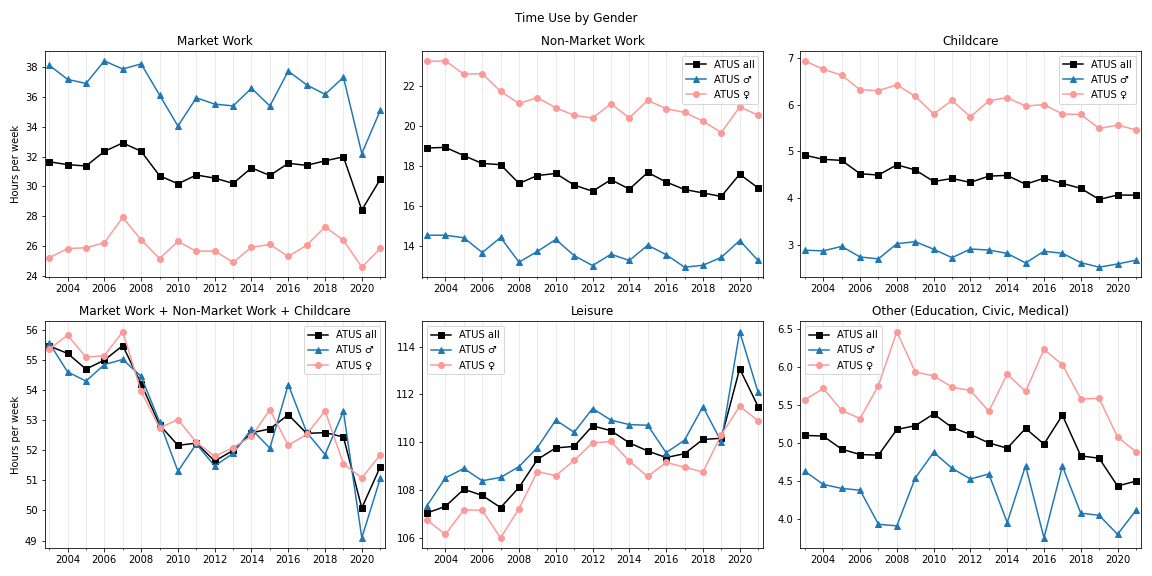
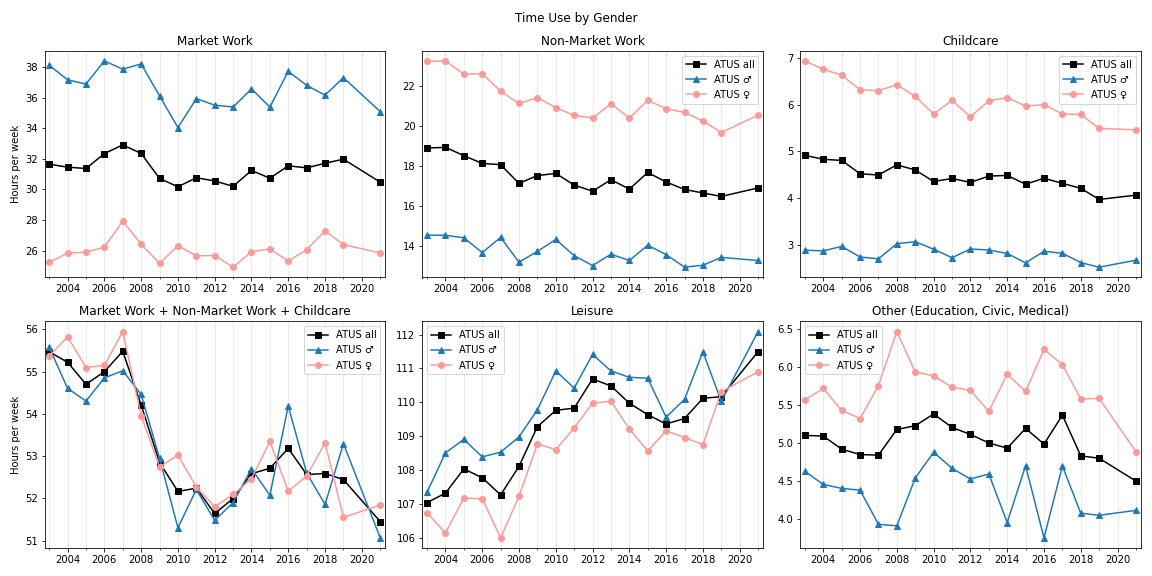
Remove 2020 data point for clarity

diff --git a/econ/timeusechange.md b/econ/timeusechange.md
@@ -4,15 +4,19 @@ subtitle: How does time use change during recent recessions? An extension of (Ag
 parent: Econ
 layout: post
 toc: true
-date: 2023-04-21
+last_modified_date: 2023-04-20
 ---
 
-<!--last_modified_date: 2022-10-16-->
+<!--
+date: 2023-04-21
+last_modified_date: 2022-10-16-->
 
 <!--source code for graphs is from papersdrafts\covid_unemployment-->
 
-This page follows the techniques from [Time Use during the Great Recession](https://www.aeaweb.org/articles?id=10.1257/aer.103.5.1664)[^aguiar2013time]
+This post follows the techniques from [Time Use during the Great Recession](https://www.aeaweb.org/articles?id=10.1257/aer.103.5.1664)[^aguiar2013time]
 and extends them to cover more recent data.
+State of this post: still rough.
+<!--The state of this post is rough, and doesn't always handle the data in the most rigourous way.-->
 
 [^aguiar2013time]: Aguiar, Mark, Erik Hurst, and Loukas Karabarbounis. 2013. "Time Use during the Great Recession." *American Economic Review*, 103 (5): 1664-96.
 
@@ -31,8 +35,23 @@ I grouped time use into the following mutually exclusive categories:
 3. Job Search
 4. Child Care[^primarychildcare]
 5. Non-Market Work (shopping, housework, etc.)
+    <!--- Core Home Production
+    - Home Ownership Activities
+    - Obtaining Goods and Services
+    - Others Care (eg taking care of the elderly)-->
 6. Leisure
+    <!-- TV Watching
+    - Socializing
+    - Sleep
+    - Eating and Personal Care 
+    - Other Leisure-->
 7. Other (education, seeking medical care, voting...)
+    <!--- Education
+    - Civic
+    - Own Medical
+    - Unclassified-->
+
+<!--grooming is kind of a work activity, really-->
 
 Also following their procedure, I restrict the sample to those who are
 - between the ages of 18 and 65, inclusive
@@ -57,14 +76,16 @@ the averages end up the same for men and women.
 
 ![](timeuseimg/totalWorkBySex.png)
 
-The above graph plots the weighted averages[^weightingnote]
+The above graph plots the weighted averages
 of various categories of time use, by year.
-It must be noted that for 2020, the averages are not representative of the entire year.[^2020note]
+There is no point for 2020 on this graph because ATUS workers were unable to collect survey responses for a portion of that year.[^atus2020note]
 Lines are plotted for the entire sample, as well as for the subsamples restricted to men or women.
 
-[^weightingnote]: The statistical weighting used for this post isn't fully consistent. <!--There are some complications with weighting ATUS data for a time series that includes 2020.--> Because of COVID, the ATUS poll workers were unable to collect responses from March 18th to May 9th or 2020. As such, the typical statistical weighting method doesn't work. The ATUS provides two sets of statistical weights: One for all years except 2020 (`wt06` in IPUMS), and one for only 2019 and 2020 (`wt20`). For ease of making this post, I simply used `wt20` for 2020, and `wt06` for all other years. 
+<!--
+[^weightingnote]: The statistical weighting used for this post isn't fully consistent. Because of COVID, the ATUS poll workers were unable to collect responses from March 18th to May 9th or 2020. As such, the typical statistical weighting method doesn't work. The ATUS provides two sets of statistical weights: One for all years except 2020 (`wt06` in IPUMS), and one for only 2019 and 2020 (`wt20`). For ease of making this post, I simply used `wt20` for 2020, and `wt06` for all other years. 
+-->
 
-[^2020note]: [As per the ATUS user's guide](https://www.bls.gov/tus/atususersguide.pdf) (see section 9.2) it is impossible to properly construct average time use estimates for 2020. Any averages over 2020 are merely averages over the ten month period when data was collected (which excludes the most dramatic two months!)
+[^2020note]: Because of COVID, the ATUS poll workers were unable to collect responses from March 18th to May 9th of 2020. [As per the ATUS user's guide](https://www.bls.gov/tus/atususersguide.pdf) (see section 9.2) it is thus impossible to properly construct average time use estimates for 2020 as a whole. Any averages over 2020 are merely averages over the ten month period when data was collected (which excludes the most dramatic two months!)
 
 
 
@@ -80,3 +101,33 @@ and the change in average total work time has declined by the same amount for ea
 
 
 [^aguiar2007measuring]: Aguiar, M. and Hurst, E., 2007. Measuring trends in leisure: The allocation of time over five decades. *The quarterly journal of economics*, 122(3), pp.969-1006.
+
+
+
+<!--TODO:
+## Unconditional Time Use Changes Before and After Covid
+
+Here, the after-COVID period is defined as 2020 June to 2021 December.
+And the before-COVID period is defined as 2018 June to 2019 December,
+just to get a similar length of time. 
+-->
+
+
+
+
+
+
+
+
+
+
+
+
+
+
+
+
+
+
+
+
